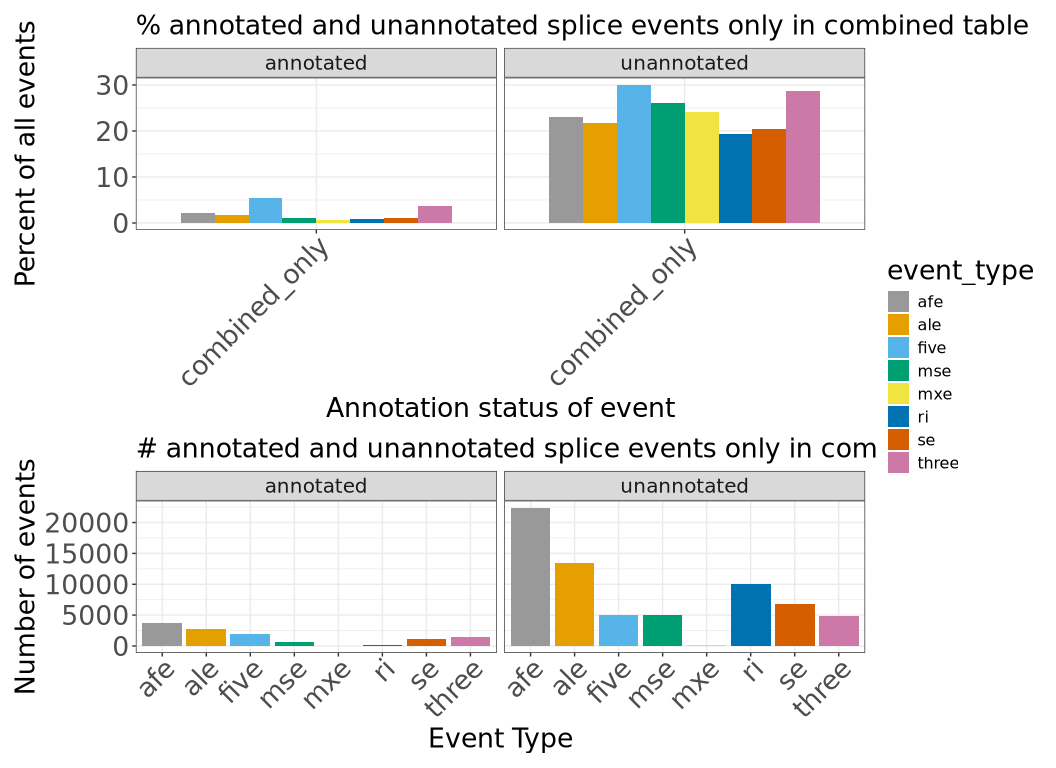
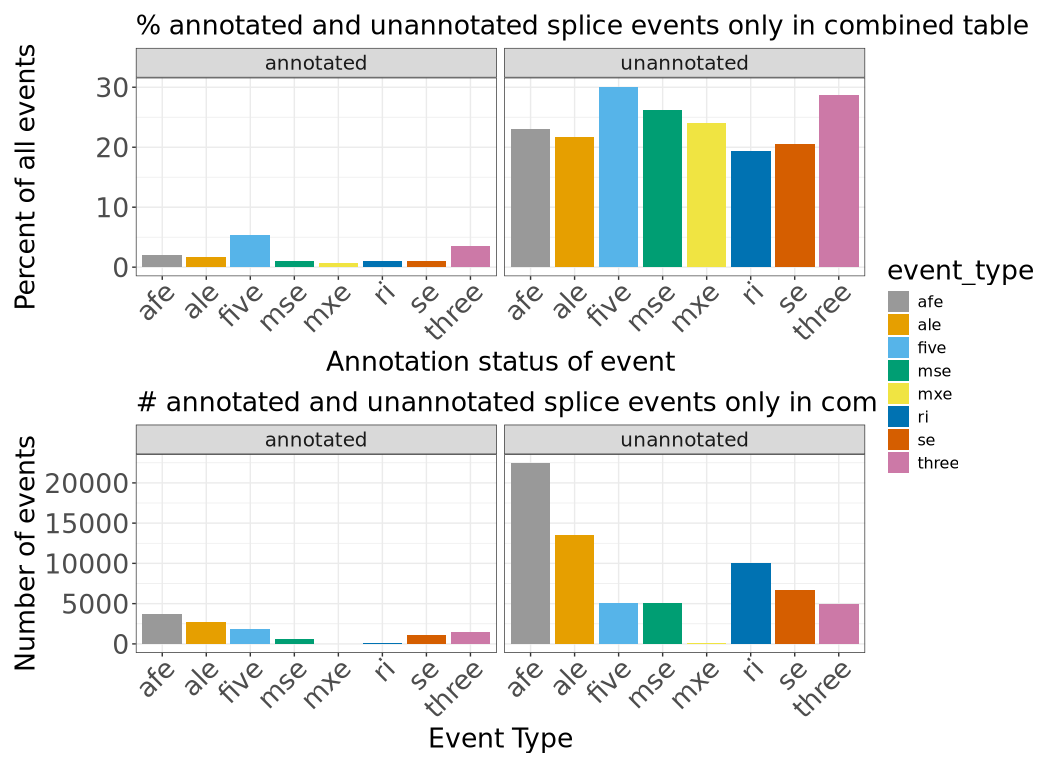
update with figures after giltering for min 5 samples in separate table only

diff --git a/exploration/merging-psi-tables/target_pilot/compare_merged_psi_table.md b/exploration/merging-psi-tables/target_pilot/compare_merged_psi_table.md
@@ -1,6 +1,6 @@
 # Compare merged PSI table from TARGET pilot samples
 Cindy Liang (celiang@ucsc.edu)
-2026-05-08
+2026-05-10
 
 **Question:** Does merging separate splice tables cause us to lose out
 on the trustworthiness of unannotated events to an extent that it
@@ -455,13 +455,8 @@ counts_plot <- ggplot(long_summary_df, aes(fill = event_type, x = event_type, y 
       y = "Number of events"
     ) +
     facet_wrap(vars(label)) +
-<<<<<<< HEAD
-    theme(strip.text = element_text(size = 15)) +
-  scale_x_discrete(guide = guide_axis(angle = 45))
-=======
     scale_x_discrete(guide = guide_axis(angle = 45)) +
     theme(strip.text = element_text(size = 15))
->>>>>>> celiang/compare-events-in-splice-tables
 
 # create percents grouped barplot
 percents_plot <- ggplot(long_summary_df, aes(fill = event_type, x = event_type, y = percent)) +
@@ -564,15 +559,6 @@ Filter for minimum samples with numeric PSI values in the separate table
 and check n_quantified
 
 ``` r
-<<<<<<< HEAD
-# make dataframe filtered for events where there are numeric PSI values in at least 5 samples
-min_samples_events <- all_events |>
-  # there is probably a more secure way to do this but the only numeric values in this table should be the PSI values per sample so i think this works
-  dplyr::filter(rowSums(dplyr::across(where(is.numeric), ~ . >= 0 )) >= min_samples)
-
-# event-level summary of the number of each splice event type in each splice table
-all_events_summary_min_samples <- min_samples_events |>
-=======
 # event-level summary of the number of each splice event type in each splice table
 all_events_min_samples <- all_events |>
   # filter for events where there are numeric PSI values in at least 5 samples
@@ -600,7 +586,6 @@ Plot event distributions of the filtered table
 ``` r
 # event-level summary of the number of each splice event type in each splice table
 all_events_summary_min_samples <- all_events_min_samples |>
->>>>>>> celiang/compare-events-in-splice-tables
   # this data frame still may include -1 and -2 NA values for other splice events but the sample-level analysis later will tell us more
   dplyr::summarise(
     .by = c(event_type, label),
@@ -659,284 +644,10 @@ all_events_summary_min_samples |>
 | ri         | annotated   |         9585 |                1675 |                   0 |
 | ri         | unannotated |         6692 |                1139 |                   0 |
 
-<<<<<<< HEAD
-This looks better to me, with the caveat that we lose all the
-combined_only events in
-<a href="#fig-splice_events_breakdown" class="quarto-xref">Figure 1</a>.
-The number of shared unannotated AFE events in
-<a href="#fig-splice_events_breakdown" class="quarto-xref">Figure 1</a>
-is ~40,000 so we seem to get most of those AFE events if we ask for
-splice events that are shared in 5 or more samples. The reduction in
-unannotated SE events is small too - we go from around 20,000 in
-<a href="#fig-splice_events_breakdown" class="quarto-xref">Figure 1</a>,
-to slightly under 20,000 here.
+Observations: - Although most events are shared after applying this
+filter and we still have unannotated events, we also still have events
+only found in the separate table. These events are harder to deal with
+because they may be real events mislabeled by Shiba, or they may be
+unreal events (we cannot easily tell)
 
-## Examine sample-level splice events
-
-Pivot longer for plotting sample-level splice event info
-
-``` r
-# Pivot all events df longer
-# Each row corresponds to a splice event found in one sample, so there are multiple rows of splice events with the same sample ID
-long_all_events <- pivot_long(all_events)
-
-# print column names
-colnames(long_all_events)
-```
-
-    [1] "event_type" "pos_id"     "label"      "sample"     "combined"  
-    [6] "separate"  
-
-``` r
-# check some smaples
-head(long_all_events)
-```
-
-| event_type | pos_id | label | sample | combined | separate |
-|:---|:---|:---|:---|---:|---:|
-| se | SE@GL000008.2@129985-130583@85625-155430 | annotated | SRR1559043 | -1.0000 | -2.0000 |
-| se | SE@GL000008.2@129985-130583@85625-155430 | annotated | SRR1559044 | -1.0000 | -2.0000 |
-| se | SE@GL000008.2@129985-130583@85625-155430 | annotated | SRR1559052 | -1.0000 | -1.0000 |
-| se | SE@GL000008.2@129985-130583@85625-155430 | annotated | SRR1559054 | -1.0000 | -1.0000 |
-| se | SE@GL000008.2@129985-130583@85625-155430 | annotated | SRR1559075 | -1.0000 | -1.0000 |
-| se | SE@GL000008.2@129985-130583@85625-155430 | annotated | SRR1559100 | 0.6875 | 0.6875 |
-
-### Examine relationships between of PSI and NA values of combined and separate tables
-
-#### How well correlated are the PSI values and NAs in each splice table type?
-
-I decided to go with a plot instead of a table for this because the
-table is 170,000 rows long. From eyeballing the table in R, I saw a
-couple values that had -2 PSI values in the separate table and -1 in the
-combined table. But it was hard to get a sense of all the possible
-separate - combined PSI value and NA combinations
-
-Even though my function should drop NAs, I still get NAs in the separate
-PSI column. If I try to drop NAs at the end, I get en error that the
-datframe contains list-cols (Warning: Values from `PSI` are not uniquely
-identified; output will contain list-cols.)
-
-``` r
-# plot basic scatterplot to see the different PSI value / NA matchup categories in the data
-ggplot(long_all_events, aes(x = combined, y = separate)) +
-  geom_point()
-```
-
-    Warning: Removed 20325272 rows containing missing values or values outside the scale
-    range (`geom_point()`).
-
-![](compare_merged_psi_table_files/figure-commonmark/psi_na_matchup_categories-1.png)
-
-From this plot, I see four different categories of splice event matches
-between the separate and combined tables:
-
-- Upper dot: We have some splice events that are dropped by Shiba due to
-  no alternative splicing in the separate tables (Y = -2) but are also
-  dropped in the combined tables because there were too few reads anyway
-  (X = -1).
-- Lower dot: We have some splice events that had too few reads for a
-  numeric PSI in both tables (x = -1, y = -1)
-- Diagonal line: We also see events whose PSI values are numeric and
-  have a linear relationship in both combined and separate methods
-  (these are likley the events that were identical and found in both)
-- The most concerning case is the horizontal line at Y=-2, corresponding
-  to splice events dropped in the separate tables due to lack of
-  transcripts for a gene but was captured in the combined splice table.
-  In this section, we can see that the PSI values calculated in the
-  combined table span the full PSI value range from 0-1, so there is no
-  easy way to replace the -2 NA values in the separate table.
-
-Summarize how many of each of these match categories are present in the
-pilot tables
-
-``` r
-na_comparison_summary(long_all_events)
-```
-
-| match_category                        |    count |    total |  percent |
-|:--------------------------------------|---------:|---------:|---------:|
-| separate dropped, combined shiba NA   | 27666041 | 58697936 | 47.13290 |
-| both Shiba NAs                        | 11156030 | 58697936 | 19.00583 |
-| both numeric PSIs                     | 12670697 | 58697936 | 21.58627 |
-| numeric PSI dropped in separate table |  7205168 | 58697936 | 12.27499 |
-
-So ~12% of all unique samples/event combinations that have events with a
-“ground truth” numeric PSI value which gets dropped in Shiba
-
-Summarize how many of each of these match categories are present in the
-pilot tables, filtered for events with numeric PSI in min_samples
-
-``` r
-# pivot min_sample filtered event-level df longer
-long_min_sample_all_events <- pivot_long(min_samples_events)
-
-# create summary table of match categories
-na_comparison_summary(long_min_sample_all_events)
-```
-
-| match_category                        |    count |    total |  percent |
-|:--------------------------------------|---------:|---------:|---------:|
-| both numeric PSIs                     | 12593448 | 35991384 | 34.99017 |
-| separate dropped, combined shiba NA   |  9142074 | 35991384 | 25.40073 |
-| both Shiba NAs                        |  7070503 | 35991384 | 19.64499 |
-| numeric PSI dropped in separate table |  7185359 | 35991384 | 19.96411 |
-
-In both tables, the majority of NAs are from low counts. There is a
-higher percentage of numeric PSIs that we lose out on in the separate
-table, even with the min_samples filter.
-
-#### Plot PSI distribution of numeric PSI dropped in separate table
-
-``` r
-# plot PSI distributions of events in combined dataframe
-psi_values_lost_in_separate(long_all_events)
-```
-
-![](compare_merged_psi_table_files/figure-commonmark/psi_dist_of_combined_only_events-1.png)
-
-``` r
-# plot PSI distributions of events in combined dataframe
-psi_values_lost_in_separate(long_min_sample_all_events)
-```
-
-![](compare_merged_psi_table_files/figure-commonmark/psi_dist_of_combined_only_events_min_samples-1.png)
-=======
 ## How many of each splice event types are quantified?
-
-### PSI value counts for unfiltered events
-
-Histogram of quantified events
-
-``` r
-# PSI distribution plots of events in each method
-number_events_dist <- function(
-    df,
-    psi_type, title) {
-    # construct histogram
-    ggplot(df,  aes(x = .data[[psi_type]], fill = event_type)) +
-    geom_histogram(bins = 20) +
-    facet_wrap(vars(event_type, label), scales = "free_y") +
-    scale_fill_manual(values = cbPalette) +
-    plot_theme +
-    # make facet labels bigger
-    theme(strip.text.x = element_text(size = global_size),
-          # rotate x axis labels so they don't overlap
-          axis.text.x = element_text(angle =45)) +
-    ggtitle(title)
-}
-
-number_events_dist(all_events, "n_quantified",   "Number of quantified PSI values in separate table")
-```
-
-<div id="fig-num_quantified_psi">
-
-<img
-src="compare_merged_psi_table_files/figure-commonmark/fig-num_quantified_psi-1.png"
-id="fig-num_quantified_psi" />
-
-Figure 4
-
-</div>
-
-Histogram of events dropped by Shiba due to insufficient read counts
-
-``` r
-number_events_dist(all_events, "n_shiba_na",   "Number of PSIs dropped due to insufficient read counts in separate table")
-```
-
-<div id="fig-num_low_read_na">
-
-<img
-src="compare_merged_psi_table_files/figure-commonmark/fig-num_low_read_na-1.png"
-id="fig-num_low_read_na" />
-
-Figure 5
-
-</div>
-
-Histogram of events dropped by separate table due to insufficient
-transcript representation
-
-``` r
-number_events_dist(all_events, "n_separate_dropped", "Number of PSIs dropped due to insufficient transcripts in separate table")
-```
-
-    Warning: Removed 79579 rows containing non-finite outside the scale range
-    (`stat_bin()`).
-
-<div id="fig-num_low_transcript_na">
-
-<img
-src="compare_merged_psi_table_files/figure-commonmark/fig-num_low_transcript_na-1.png"
-id="fig-num_low_transcript_na" />
-
-Figure 6
-
-</div>
-
-### PSI value counts for events filtered for quantified PSI values in a minimum amount of samples
-
-Histogram of quantified events
-
-``` r
-number_events_dist(all_events_min_samples, "n_quantified",   "Number of quantified PSI values in separate table")
-```
-
-<div id="fig-num_quantified_psi_minfiltered">
-
-<img
-src="compare_merged_psi_table_files/figure-commonmark/fig-num_quantified_psi_minfiltered-1.png"
-id="fig-num_quantified_psi_minfiltered" />
-
-Figure 7
-
-</div>
-
-Histogram of events dropped by Shiba due to insufficient read counts
-
-``` r
-number_events_dist(all_events_min_samples, "n_shiba_na",   "Number of PSIs dropped due to insufficient read counts in separate table")
-```
-
-<div id="fig-num_low_read_na_minfiltered">
-
-<img
-src="compare_merged_psi_table_files/figure-commonmark/fig-num_low_read_na_minfiltered-1.png"
-id="fig-num_low_read_na_minfiltered" />
-
-Figure 8
-
-</div>
-
-Histogram of events dropped by separate table due to insufficient
-transcript representation
-
-``` r
-number_events_dist(all_events_min_samples, "n_separate_dropped", "Number of PSIs dropped due to insufficient transcripts in separate table")
-```
-
-<div id="fig-num_low_transcript_na_minfiltered">
-
-<img
-src="compare_merged_psi_table_files/figure-commonmark/fig-num_low_transcript_na_minfiltered-1.png"
-id="fig-num_low_transcript_na_minfiltered" />
-
-Figure 9
-
-</div>
-
-The way I am plotting these histograms makes it difficult to compare the
-number of PSI values in each category between the unfilterd and filtered
-data frames. I additionally want to compare these numbers between the
-separate and complete tables but am not sure if that is useful
-information. These are a lot of facets that would be confusing to look
-at all at once. One idea I have is to just plot the skipped exon
-histograms, colored by the type of PSI value (n_quantified,
-n_shiba_dropped, n_separate_dropped), Faceted by label
-(annotated/unannotated), and whether the quantification is from the
-separate or combined table. I would make one of these plots for the full
-dataframe and a second for the filtered one.
-
-My biggest takeaway here is “if we filter for min 5 samples, there are
-fewer thing dropped. But many things are still dropped, which is bad”
->>>>>>> celiang/compare-events-in-splice-tables
